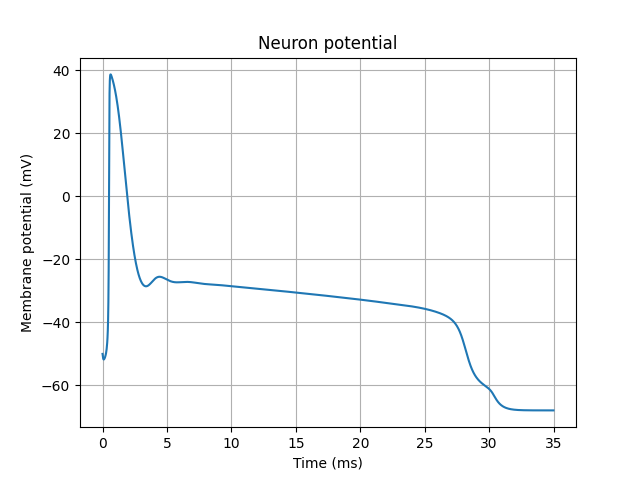
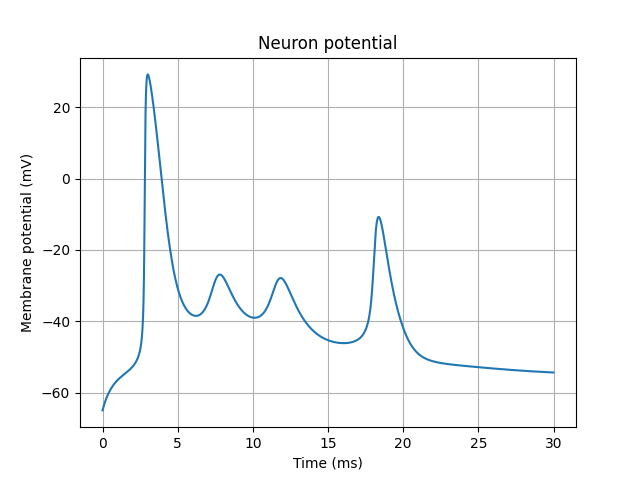
works only for one set of params

diff --git a/Full_Model.py b/Full_Model.py
@@ -10,7 +10,7 @@ import time
 # K = Potassium
 
 start_time = time.time()    # Monitor performance
-tmax = 35                   # Duration of the simulation
+tmax = 30                   # Duration of the simulation
 i_na_trace = []             # Trace for graph purposes
 i_k_trace = []
 i_leak_trace = []
@@ -80,8 +80,8 @@ class Model:
         hh = HodgkinHuxley() 
 
         # somatic_voltage=Somatic_Voltage(g_na=60., g_k=200., g_l=2., c_m=1., v_init=-50., vna=115., vk=-88., vl=-30, i_inj=10.)
-        # somatic_voltage=Somatic_Voltage(105.,15.,2.,1.,-70.,45.,-88.,-88,10.)              # Parameter values from Parameters2.py
-        somatic_voltage=Somatic_Voltage(60.,200.,2.,1.,-50,45.,-88.,-88.,40.)             # Parameter values from research paper
+        # somatic_voltage=Somatic_Voltage(105.,15.,2.,1.,-70.,45.,-88.,-88,10.)                                                              # Parameter values from Parameters2.py
+        somatic_voltage=Somatic_Voltage(g_na=47.2, g_k=200., g_l=2., c_m=1., v_init=-65., vna=45., vk=-88., vl=-88., i_inj=62.46)             # Parameter values from research paper
 
         v_initial = somatic_voltage.v_init
 
@@ -92,29 +92,27 @@ class Model:
         bigv=bigt=bigo=bigb=bigi6=bigc5 = np.array([])
         i = status = 0
         step = 0.0025
-        norm_const = print_const = 1
-        j = 1
-        step = step*j
+        print_const = 1
         print_n = 10
         while i< tmax and status==0 :
 
             result = solve_ivp(f, t_span=(i,i+step), y0=y, method='BDF')
             # print(np.shape(result.y))                                      # (15,len(t_eval)) 15 derivatives and the length of t_eval if one exists
             y_norm = result.y[:,-1]
-            y = normalize(y_norm)                                        # Normalise only the markov derivatives at every step
+            y = normalize(y_norm)                                            # Normalise only the markov derivatives at every step
 
-            if print_const ==1:
+            if print_const == 1:
                 bigv  = np.concatenate((bigv,result.y[0]))                       # result.y[0] = result.y[0,:]
                 bigt  = np.concatenate((bigt,result.t))   
                 bigc5 = np.concatenate((bigc5,result.y[6]))     
                 bigi6 = np.concatenate((bigi6,result.y[12]))
                 bigo  = np.concatenate((bigo,result.y[13]))
                 bigb  = np.concatenate((bigb,result.y[14]))
-                print_const=print_n
+                print_const = print_n
 
-            status = result.status                                       # -1: Integration step failed.
-            i+=step                                                      #  0: The solver successfully reached the end of t_span.
-            print_const     -= 1  
+            status = result.status                                         # -1: Integration step failed.
+            i += step                                                      #  0: The solver successfully reached the end of t_span.
+            print_const -= 1  
 
         ax = plt.subplot()
         ax.plot(bigt, bigo,c='r',label='o')
